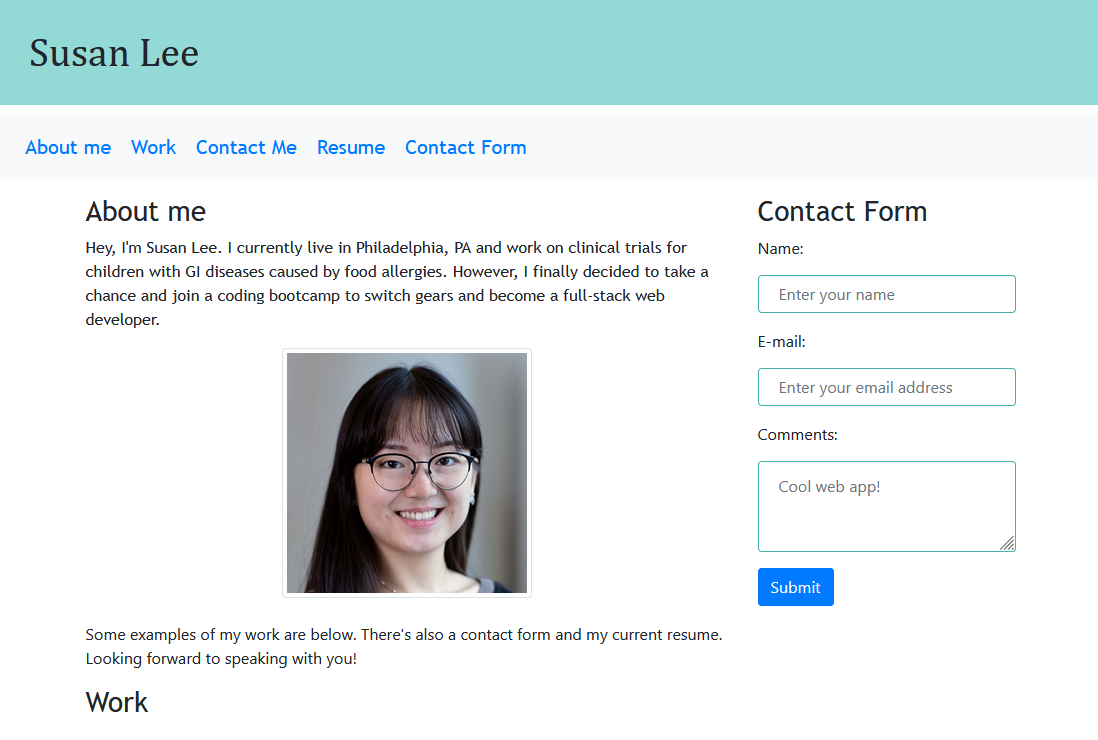
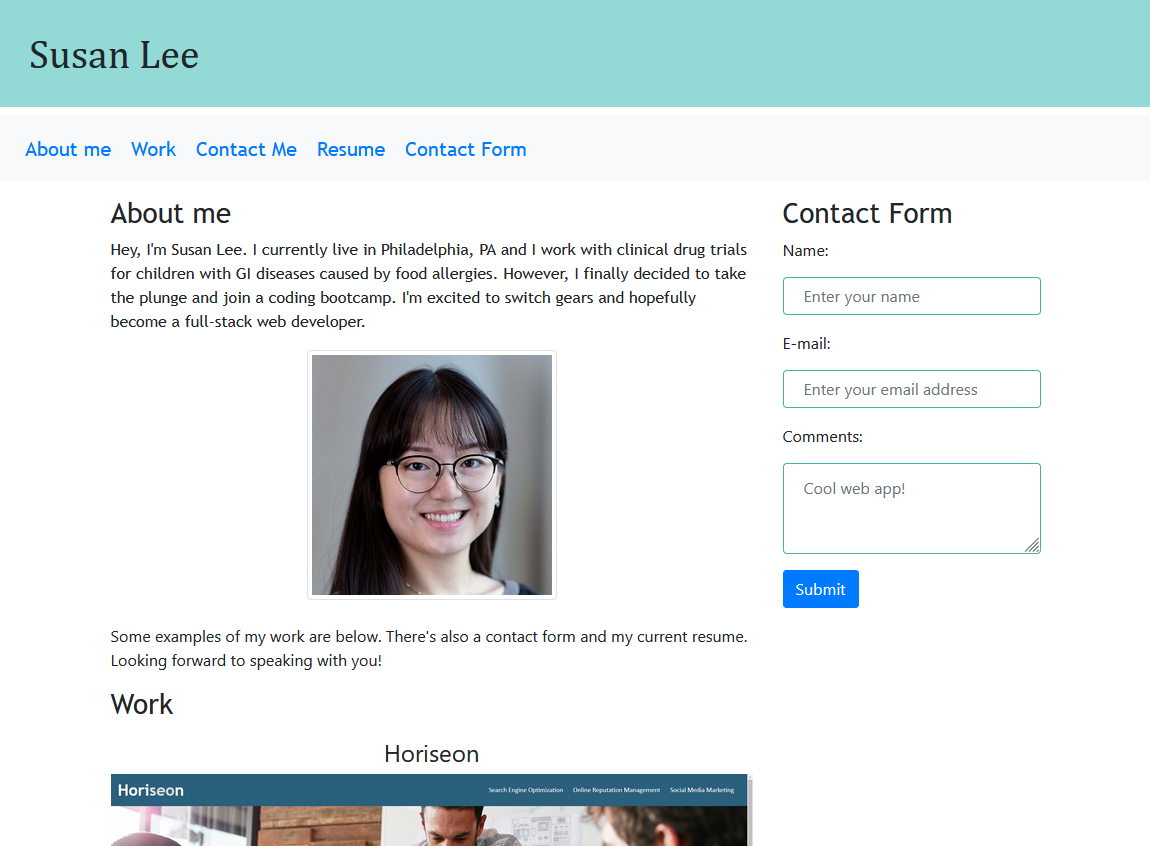
modified about me text

diff --git a/index.html b/index.html
@@ -31,7 +31,7 @@
             <div class="main">
                 <section class="about-me">
                     <h3>About me</h3>
-                        <p> Hey, I'm Susan Lee. I currently live in Philadelphia, PA and work on clinical trials for children with GI diseases caused by food allergies. However, I finally decided to take a chance and join a coding bootcamp to switch gears and become a full-stack web developer. <br>
+                        <p> Hey, I'm Susan Lee. I currently live in Philadelphia, PA and I work with clinical drug trials for children with GI diseases caused by food allergies. However, I finally decided to take the plunge and join a coding bootcamp. I'm excited to switch gears and hopefully become a full-stack web developer. <br>
                             <div class="text-center">
                             <img src="./assets/images/photo-of-susan.jpg" alt="photo of Susan" style="width:250px;" class="img-thumbnail">
                             </div>
